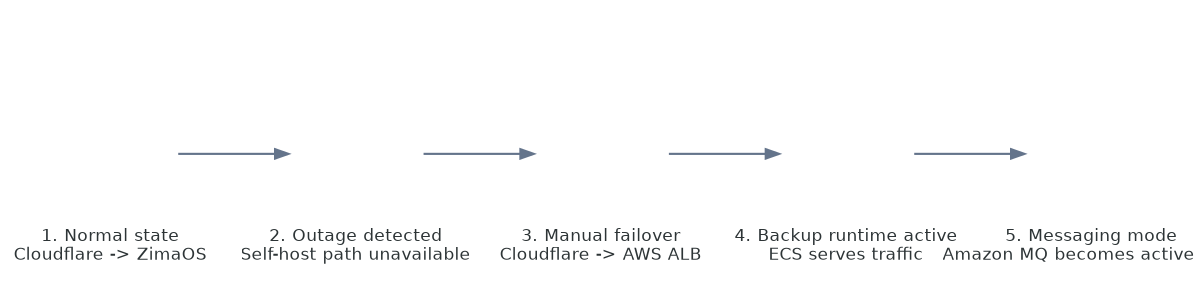
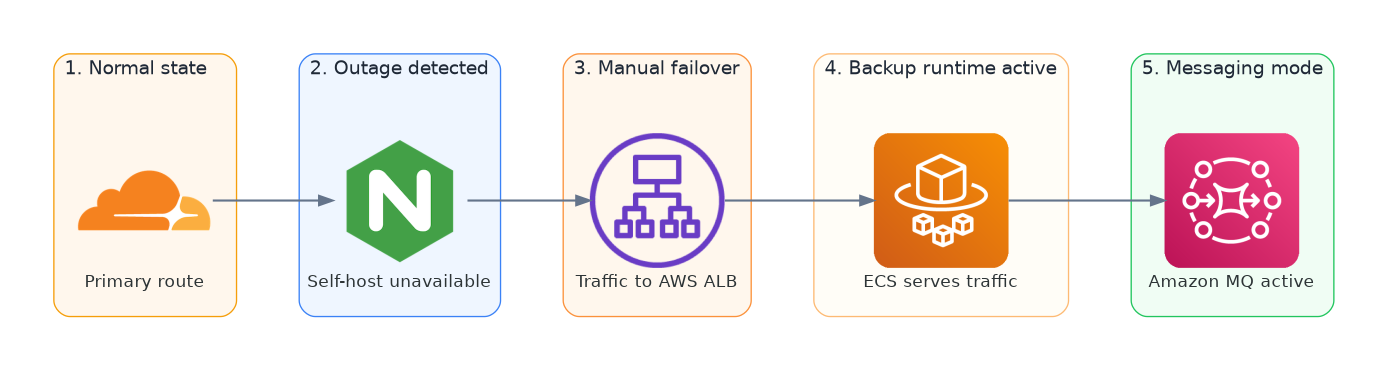
feat(diagrams): enhance failure sequence diagram with clusters for better visualization

diff --git a/content/_tools/generate_diagrams.py b/content/_tools/generate_diagrams.py
@@ -5,10 +5,10 @@ from pathlib import Path
 
 from diagrams import Cluster, Edge
 from diagrams.aws.compute import Fargate
+from diagrams.aws.management import Cloudwatch
 from diagrams.aws.general import Users
 from diagrams.aws.integration import MQ
 from diagrams.aws.network import ALB
-from diagrams.generic.blank import Blank
 from diagrams.onprem.container import Docker
 from diagrams.onprem.network import Nginx
 from diagrams.onprem.queue import RabbitMQ
@@ -98,11 +98,16 @@ def generate_messaging_diagram() -> None:
 
 def generate_failure_sequence_diagram() -> None:
     def builder() -> None:
-        normal = Blank("1. Normal state\nCloudflare -> ZimaOS")
-        outage = Blank("2. Outage detected\nSelf-host path unavailable")
-        switch = Blank("3. Manual failover\nCloudflare -> AWS ALB")
-        backup = Blank("4. Backup runtime active\nECS serves traffic")
-        queue = Blank("5. Messaging mode\nAmazon MQ becomes active path")
+        with Cluster("1. Normal state", graph_attr=cluster_style("#FFF7ED", "#F59E0B")):
+            normal = Cloudflare("Primary route")
+        with Cluster("2. Outage detected", graph_attr=cluster_style("#EFF6FF", "#3B82F6")):
+            outage = Nginx("Self-host unavailable")
+        with Cluster("3. Manual failover", graph_attr=cluster_style("#FFF7ED", "#FB923C")):
+            switch = ALB("Traffic to AWS ALB")
+        with Cluster("4. Backup runtime active", graph_attr=cluster_style("#FFFDF7", "#FDBA74")):
+            backup = Fargate("ECS serves traffic")
+        with Cluster("5. Messaging mode", graph_attr=cluster_style("#F0FDF4", "#22C55E")):
+            queue = MQ("Amazon MQ active")
         normal >> outage >> switch >> backup >> queue
 
     render_bundle_diagram(
